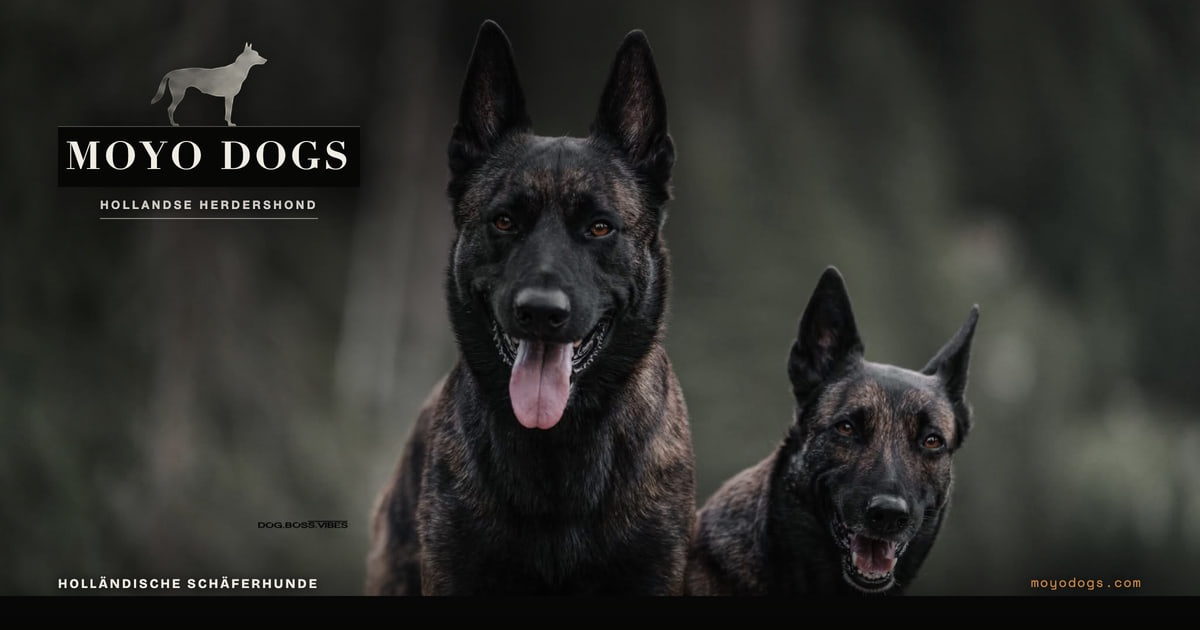
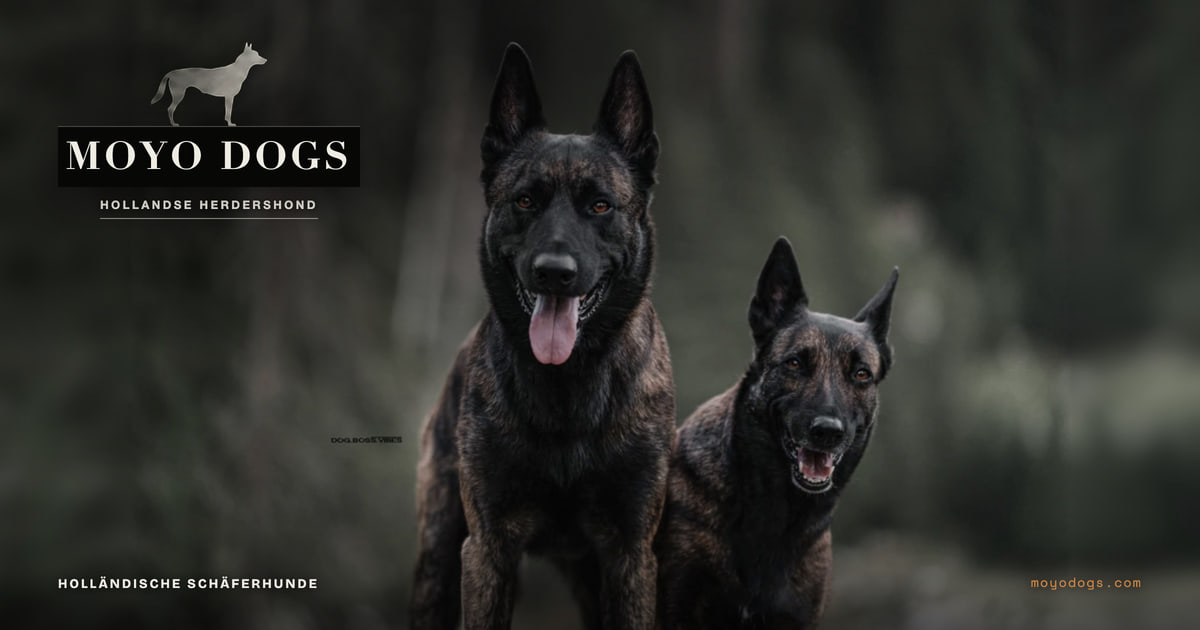
Social-Vorschaubild: Foto herausgezoomt, beide Hunde ganz im Bild

diff --git a/docs/mockups/social/index.html b/docs/mockups/social/index.html
@@ -22,11 +22,11 @@ a{color:#c3a15c}
 </head>
 <body>
 <h1>Social-Vorschaubild</h1>
-<p>Finale Variante für den Link-Preview, <b>1200 × 630 px</b>. Das Foto ist unverändert – nur der Bildausschnitt wurde beschnitten und leicht nach oben verschoben, damit beide Hunde gut ins Format passen. Ausdruck und Gestik sind nicht bearbeitet. Logo und Schrift in Creme statt Gold, Fusszeile ohne Kanton Bern. Das Original-Wasserzeichen bleibt im Bild.</p>
+<p>Finale Variante für den Link-Preview, <b>1200 × 630 px</b>. Das Foto ist unverändert – Ausdruck und Gestik sind nicht bearbeitet. Für das breite Format wurde es leicht herausgezoomt, sodass beide Hunde vollständig zu sehen sind; die Seitenränder sind mit einer gespiegelten, weichgezeichneten Fortsetzung des Fotos gefüllt. Logo und Schrift in Creme statt Gold, Fusszeile ohne Kanton Bern. Das Original-Wasserzeichen bleibt im Bild.</p>
 <figure>
   <a href="preview.jpg"><img src="preview.jpg" alt="Social-Vorschaubild: zwei Holländische Schäferhunde, Logo MOYO DOGS in Creme"></a>
   <figcaption><span><b>social-card.jpg</b> · 1200 × 630 · JPEG</span><span>65 KB</span></figcaption>
 </figure>
-<p class="note">Die Datei liegt als <code>public/media/social-card.jpg</code> in der Website und ist in <code>src/data/site.json</code> als <code>socialImage</code> hinterlegt. <code>card.html</code> ist die Render-Vorlage und verweist auf das Originalfoto <code>IMG_6577.JPG</code>; <code>assets/dog-cream.png</code> ist die freigestellte Creme-Silhouette.</p>
+<p class="note">Die Datei liegt als <code>public/media/social-card.jpg</code> in der Website und ist in <code>src/data/site.json</code> als <code>socialImage</code> hinterlegt. <code>card.html</code> ist die Render-Vorlage, <code>assets/photo-wide.jpg</code> das vorbereitete Foto im Kartenformat (1200 × 630, Ränder gespiegelt), <code>assets/dog-cream.png</code> die freigestellte Creme-Silhouette.</p>
 </body>
 </html>

diff --git a/docs/mockups/social/card.html b/docs/mockups/social/card.html
@@ -8,7 +8,7 @@
 *{box-sizing:border-box;margin:0;padding:0}
 body{width:1200px;height:630px;overflow:hidden;background:#0c0c0b}
 .card{position:relative;width:1200px;height:630px;overflow:hidden;background:#0c0c0b}
-.photo{position:absolute;inset:0;width:100%;height:100%;object-fit:cover;object-position:center top;filter:saturate(.96) contrast(1.04);transform:translateY(-34px)}
+.photo{position:absolute;inset:0;width:100%;height:100%;object-fit:cover;object-position:center top;filter:saturate(.96) contrast(1.04)}
 .scrim{position:absolute;inset:0;background:
   radial-gradient(48% 52% at 19% 24%,rgba(0,0,0,.58) 0%,rgba(0,0,0,.30) 55%,rgba(0,0,0,0) 100%),
   linear-gradient(180deg,rgba(0,0,0,.30) 0%,rgba(0,0,0,0) 24%),
@@ -34,7 +34,7 @@ body{width:1200px;height:630px;overflow:hidden;background:#0c0c0b}
 </head>
 <body>
 <div class="card card--min">
-  <img class="photo" src="file:///Users/moyo/Downloads/IMG_6577.JPG" alt="">
+  <img class="photo" src="assets/photo-wide.jpg" alt="">
   <div class="scrim"></div>
   <div class="brand">
     <img class="dog" src="assets/dog-cream.png" alt="">
